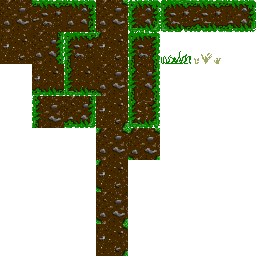
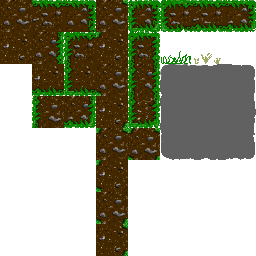
Stuff

Changed region(s): [[0.625, 0.25, 1.0, 0.625]]

diff --git a/js/jimhub.js b/js/jimhub.js
@@ -4,6 +4,8 @@ var blogWidth = 800;
 var headerHeight = 300;
 var navBarHeight = 32;
 
+var navBarLoaded = false;
+
 $(function() {
 	//$("#header").css('background-image', 'url("assets/gameheader.png")');
 
@@ -11,8 +13,6 @@ $(function() {
 	$("#navBar").hide();
 
 	$(window).resize(repositionings);
-
-	
 
 	getBlogCategories(blogWidth);
 	
@@ -38,13 +38,13 @@ function repositionings() {
 	$("#navBarBG").offset({ left: navBarLeft, top: navBarTop});
 	$("#navBar").offset({ left: navBarLeft, top: navBarTop});
 
-	var contentTop = navBarTop + 40;
+	var contentTop = navBarTop + (navBarLoaded ? 40 : 8);
 
-	$("#contentBG").offset({ left: navBarLeft, top: contentTop});
-	$("#contentBG").width(blogWidth);
-	$("#contentBG").height($(window).height() - contentTop);
+	$("#contentContainer").offset({ left: navBarLeft, top: contentTop});
+	$("#contentContainer").width(blogWidth);
+	$("#contentContainer").height($(window).height() - contentTop-40);
 
-	//matchElementDimensions($("#contentBG"), $("#content"));
+	matchElementDimensions($("#contentBG"), $("#contentContainer"));
 }
 
 function matchElementDimensions(matcher, matchee) {
@@ -103,11 +103,21 @@ function getBlogCategories(blogWidth) {
     			);
     		});
 
+			navBarLoaded = true;
+
 			//$("#navBarBG").fadeTo( 1250, 0.3 );
 			$("#navBarBG").slideDown(1000);
     		$("#navBar").slideDown(1000);
 
-    		repositionings();
+    		$( "#contentContainer" ).animate({
+			    top: "+=32",
+			    height: "-=32"
+			  }, 1000, function() {
+			    // Animation complete.
+			    repositionings();
+			  });
+
+    		
 		}
 	)
 	.error(

diff --git a/index.html b/index.html
@@ -160,9 +160,11 @@
     <div id="navBarBG"></div>
     <ul id="navBar"></ul>
 
-    <div id="contentBG">
-    </div>
-    <div id="content">
+    <div id="contentContainer">
+        <div id="contentBG">
+        </div>
+        <div id="content">
+        </div>
     </div>
     
 </body>

diff --git a/css/jimhub.css b/css/jimhub.css
@@ -54,7 +54,13 @@ body {
 	margin: 0;
 }
 
-#contentBG 
+#contentContainer
+{
+	position: absolute;
+	margin-bottom: 40px;
+}
+
+#contentBG
 {
 	background-color: #000000;
 	opacity: 0.3;
